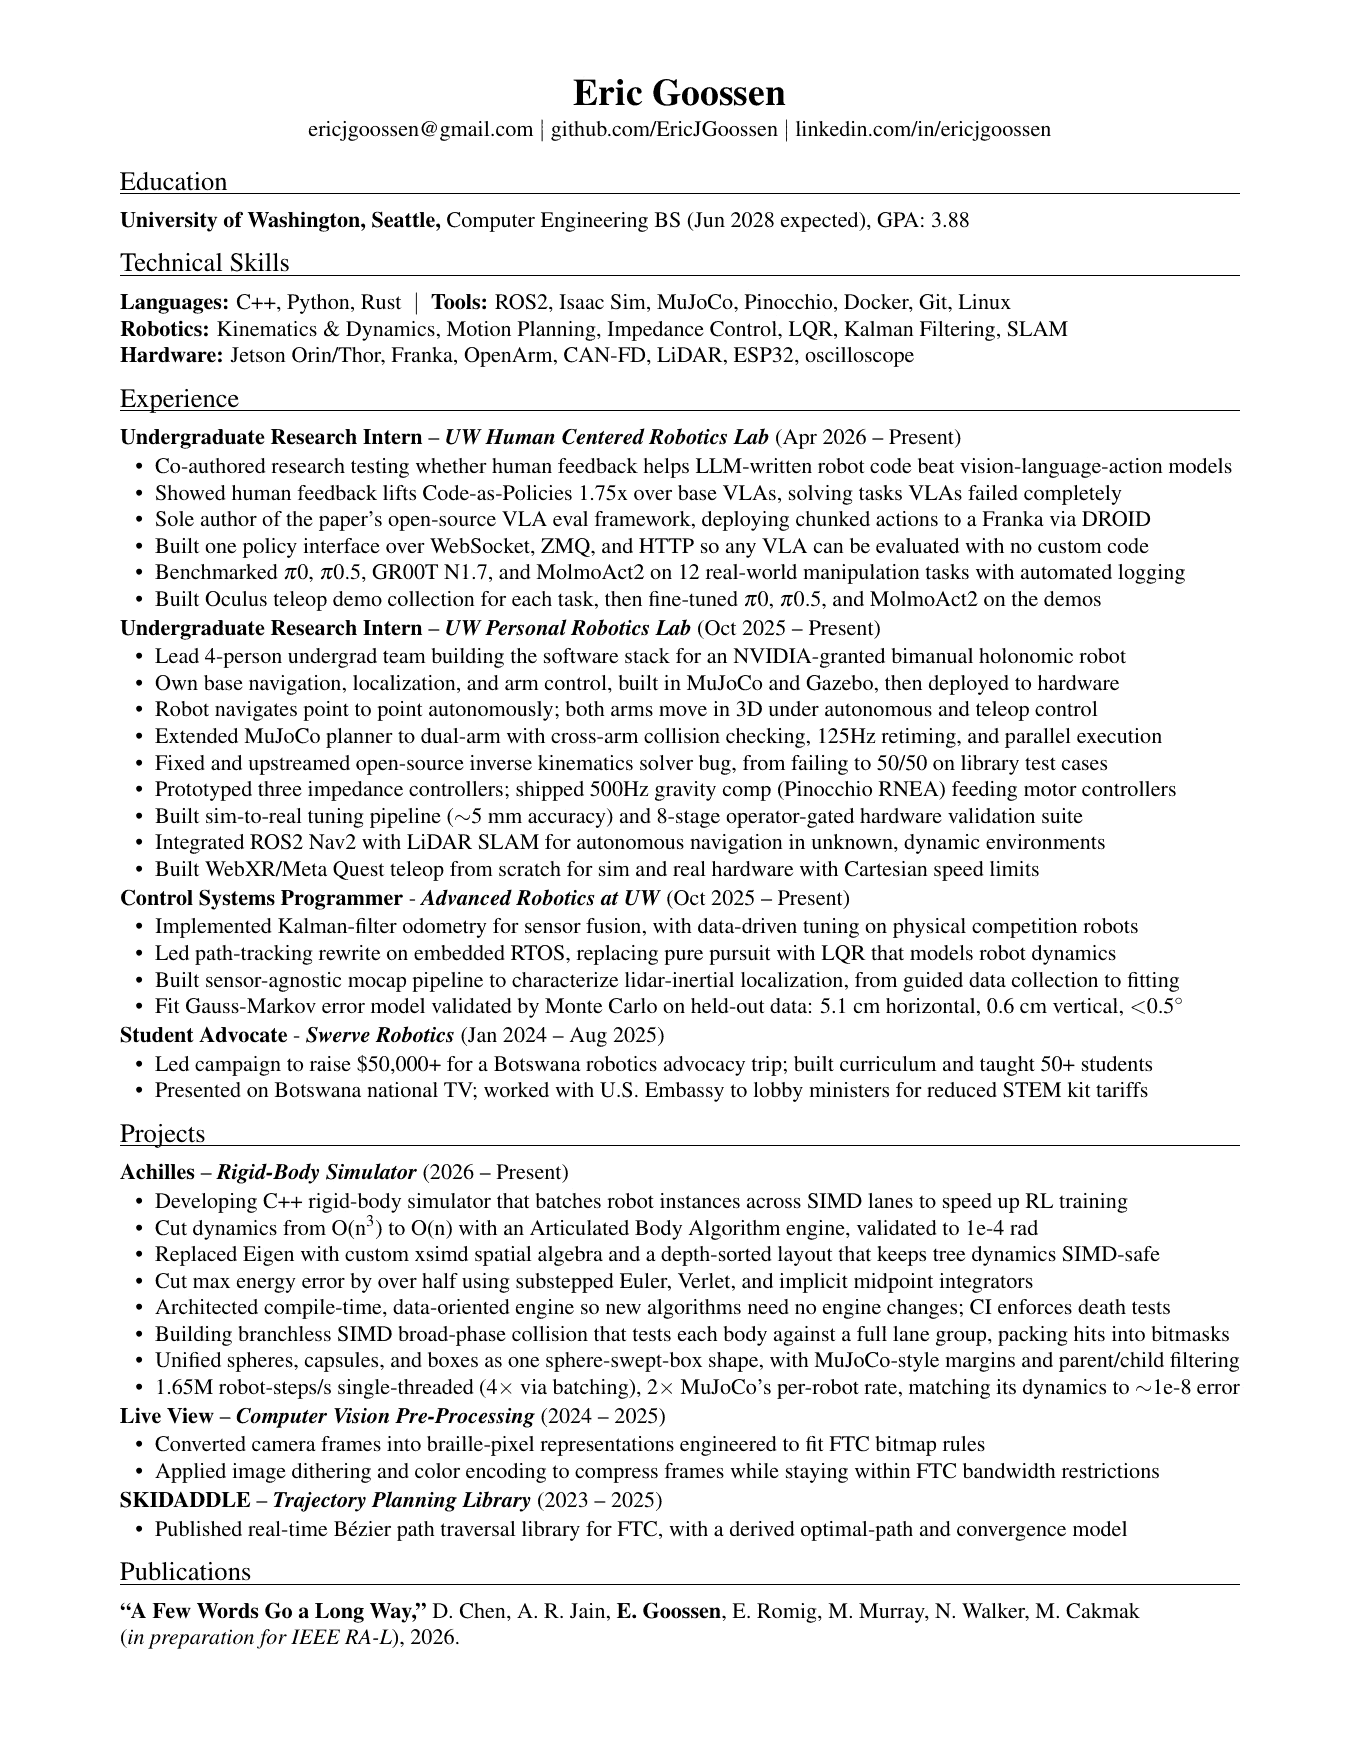
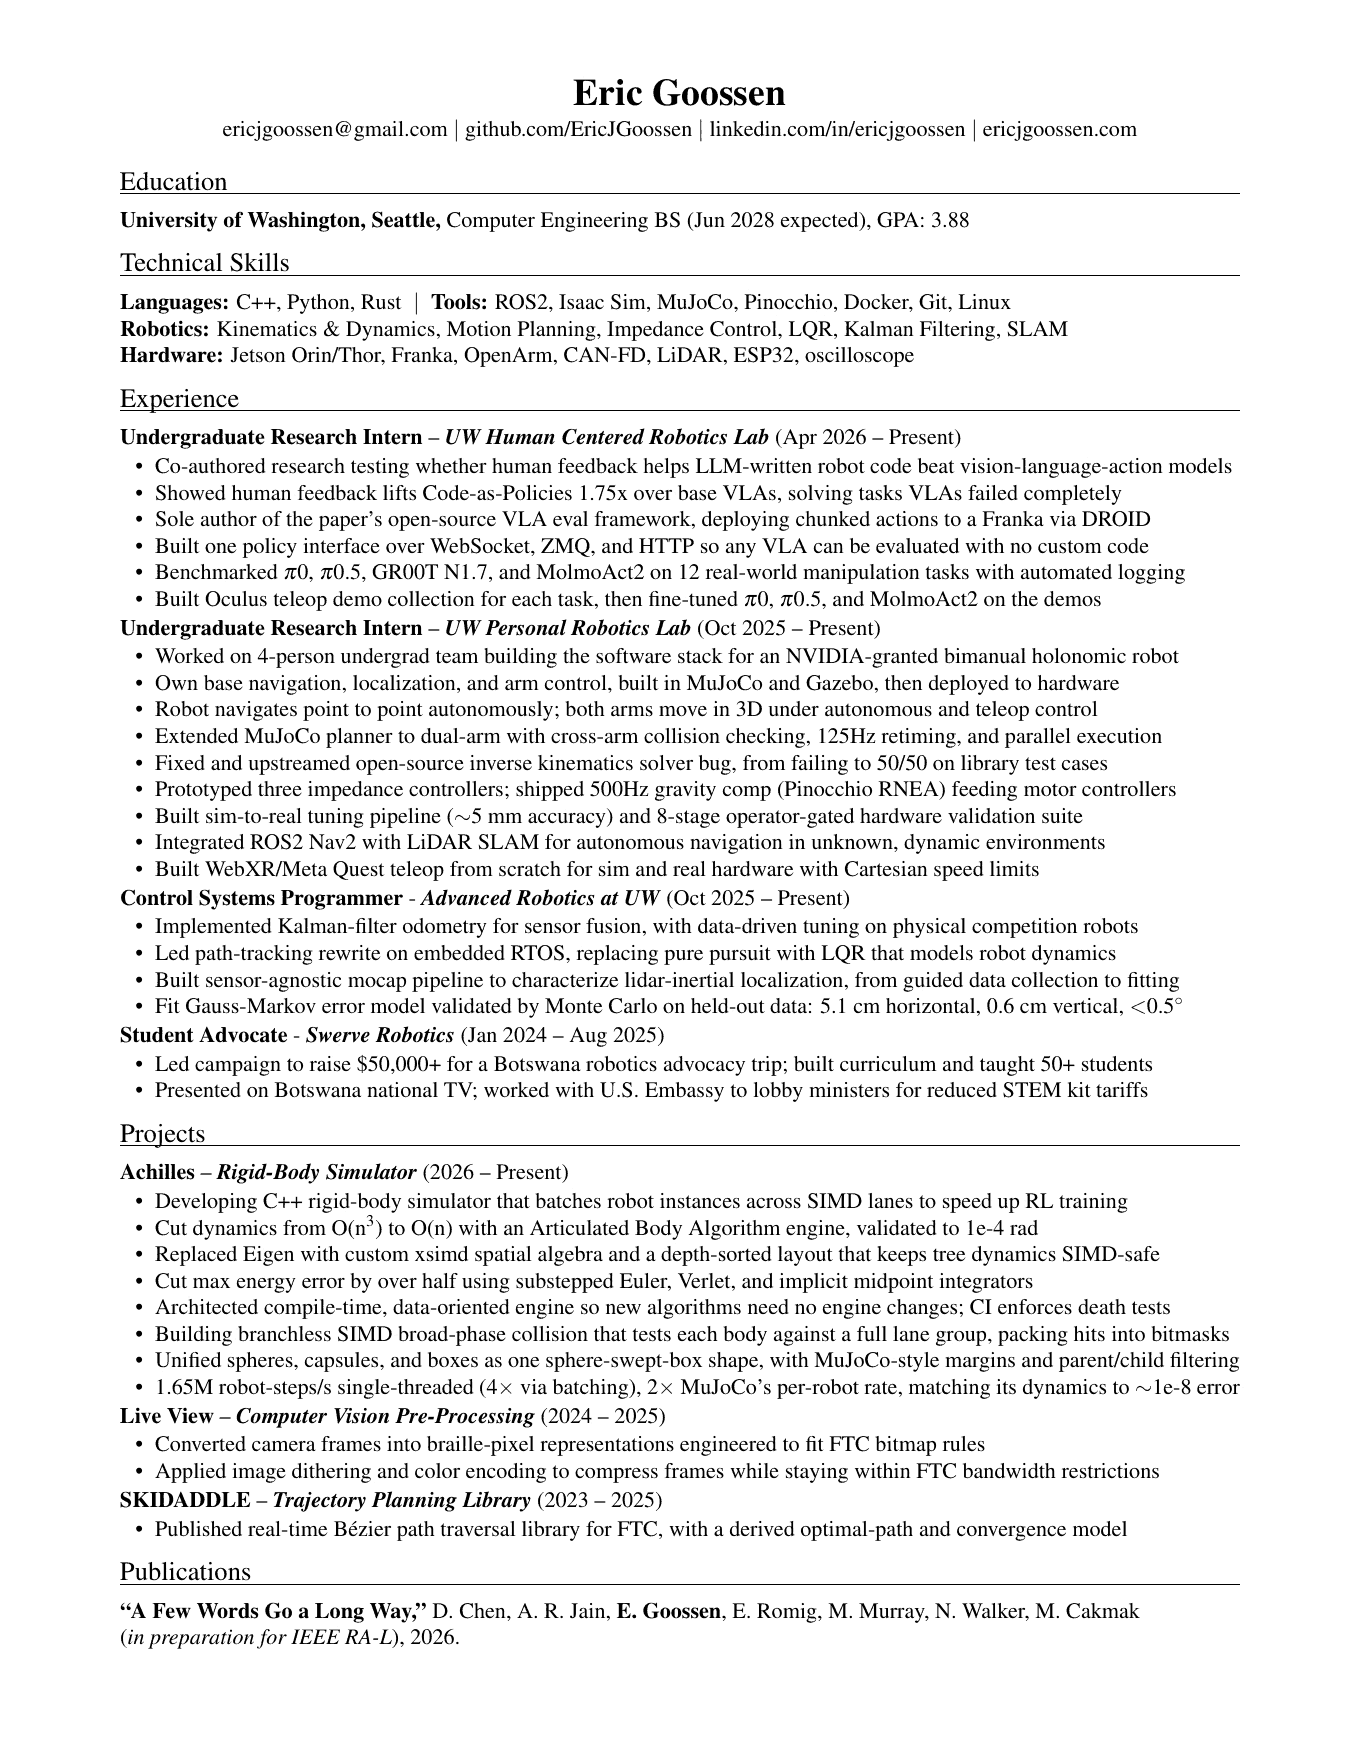
Update the resume, and match the bio to it
New resume PDF from Eric (adds ericjgoossen.com to the header; the PRL
line now says he worked on the 4-person team rather than led it).
Regenerated the page image, and changed the home bio and the OpenDubs
overview from "lead" to match.

Claude-Session: https://claude.ai/code/session_01VT6rwvoTZccGUx9ZVyWK2v

diff --git a/src/projects/opendubs/index.md b/src/projects/opendubs/index.md
@@ -31,4 +31,4 @@ links:
     url: https://github.com/EricJGoossen/mj_manipulator
 ---
 {# Placeholder: Eric to confirm the whole page. Drafted from his commits in rajitzg/opendubs-core, EricJGoossen/open_dubs_mocap, project_openDubs, the openarm_* repos and the mj_manipulator / mj_manipulator_ros forks, plus his resume. From Eric (Oct 23): point-to-point navigation worked only in simulation, so the overview no longer claims it (the resume still does). Which GitHub link(s) should the header show? The cover is a MuJoCo render (images/bimanual-crossing.mp4); swap in real robot footage when there is some. #}
-OpenDubs is the Personal Robotics Lab's bimanual mobile manipulator: a holonomic mecanum base, an NVIDIA Jetson Thor and two 7-DOF OpenArm arms, granted by NVIDIA. I lead the four-person undergraduate team building its software, and I own base navigation, localization and arm control: each piece built in simulation first, then brought up on the hardware. Both arms now move in 3D under planned and teleoperated control, and I've led demos of the robot for industry visitors and donors.
+OpenDubs is the Personal Robotics Lab's bimanual mobile manipulator: a holonomic mecanum base, an NVIDIA Jetson Thor and two 7-DOF OpenArm arms, granted by NVIDIA. I'm on the four-person undergraduate team building its software, and I own base navigation, localization and arm control: each piece built in simulation first, then brought up on the hardware. Both arms now move in 3D under planned and teleoperated control, and I've led demos of the robot for industry visitors and donors.
